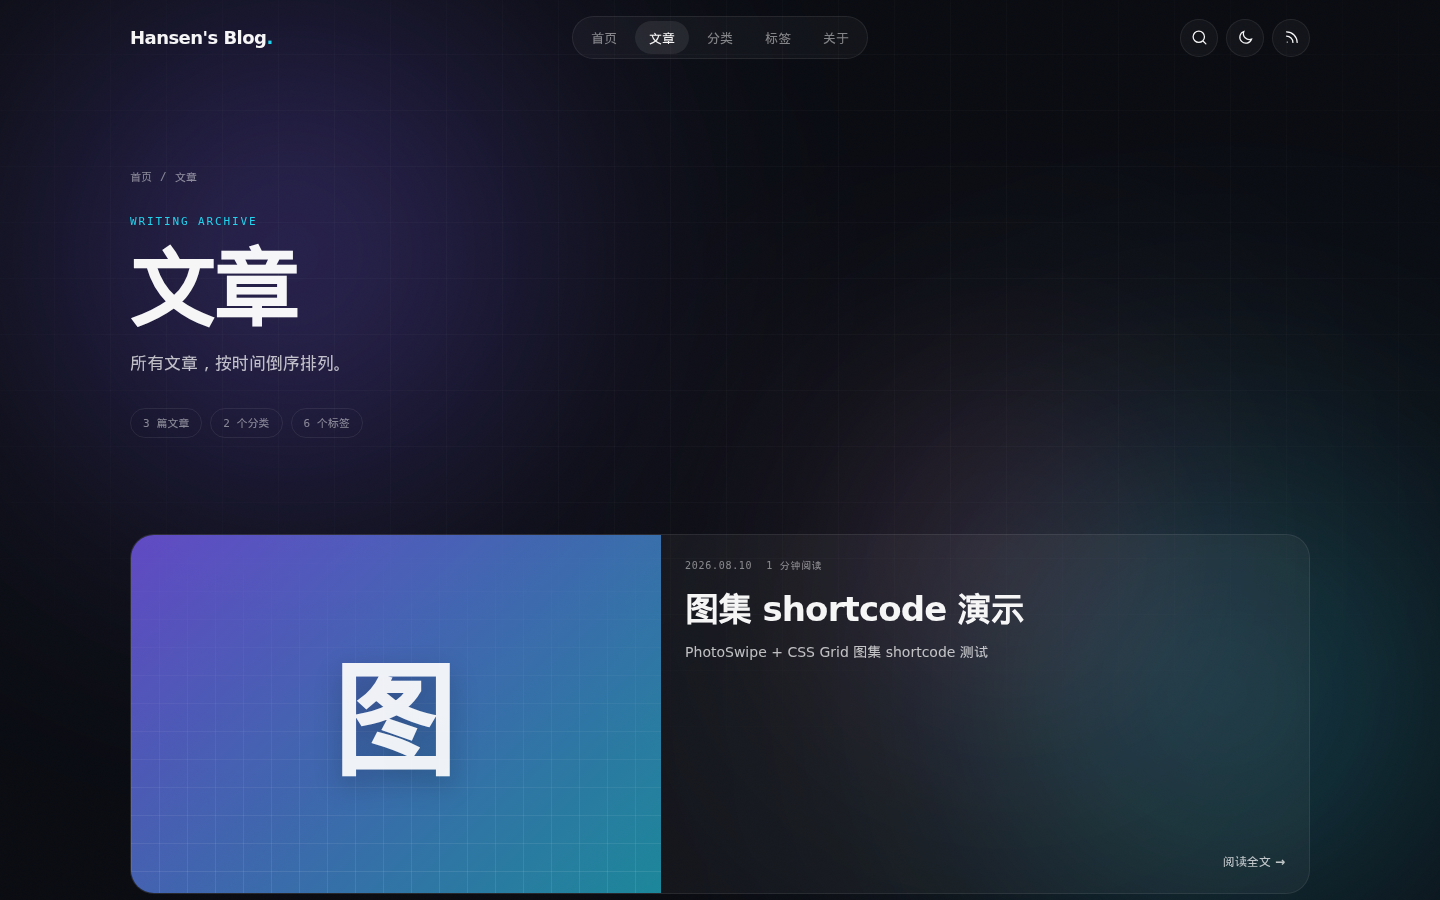
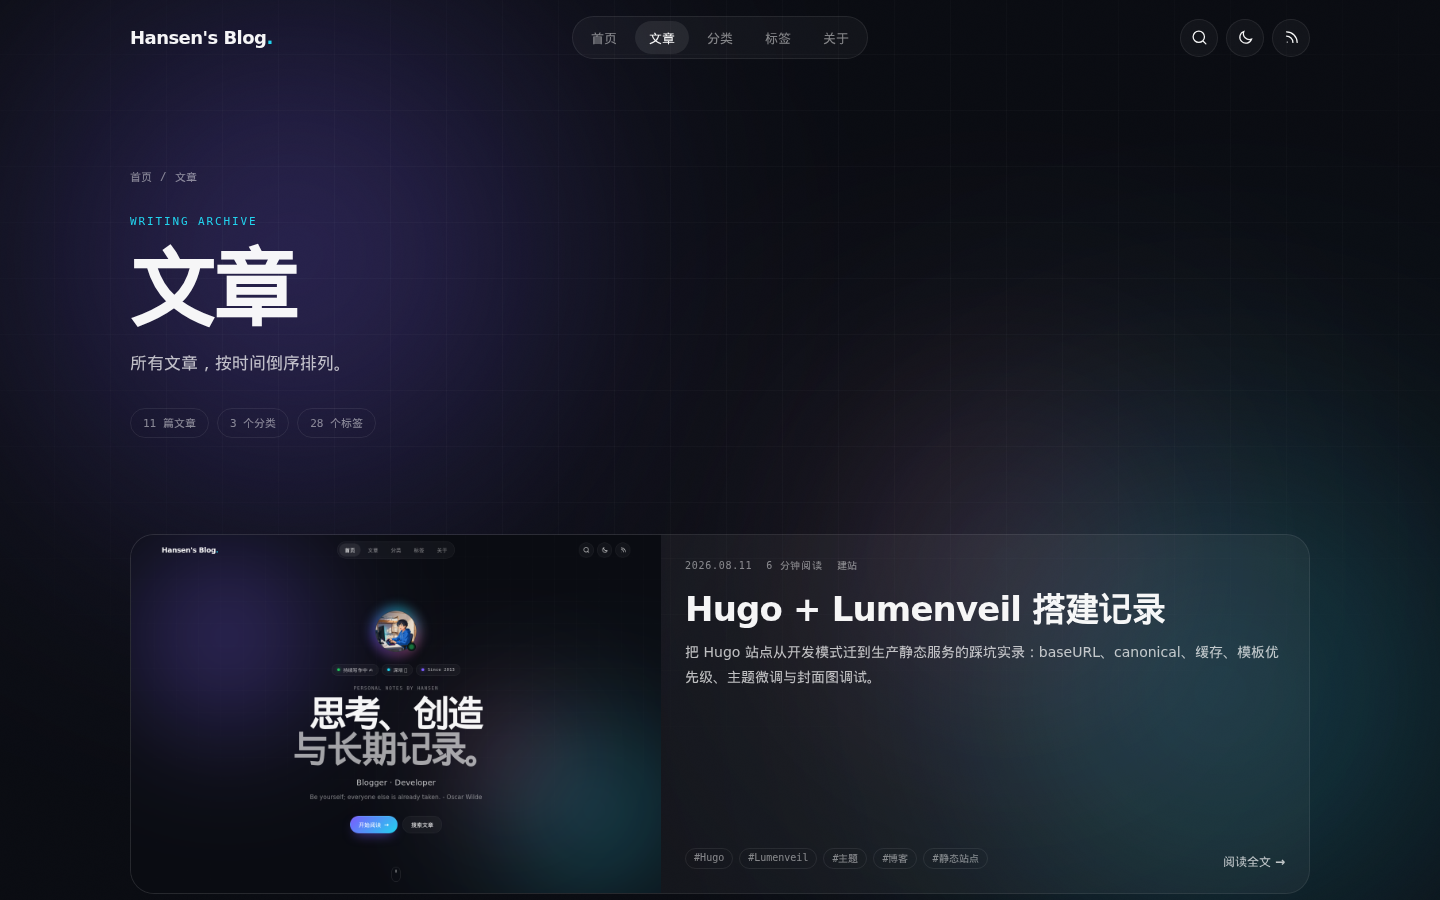
chore: bundle today's screenshots, template fixes, and docs
Squash of 29af830 + 0824f3c + f77db39 into a single commit.

Screenshots (refreshed):
- docs/screenshots/posts.png + posts-dark.png: Articles list with
  new post-card cover support (Resources.GetMatch -> relURL fallback)
- docs/screenshots/post.png + post-dark.png: single Article with
  dark-mode image and conditional post-nav (hidden at archive ends)
- README.md: bilingual EN/中文 captions on all 8 screenshot rows

Templates:
- layouts/_partials/post-card.html: cover now falls back to static/
  path when no page-bundle resource matches
- layouts/archives/single.html + page/single.html + single.html:
  post-nav only renders when both PrevInSection and NextInSection
  exist (no more empty single-side links at the ends of the archive)

Docs:
- README.md: Features list adds cover image bullet; Example frontmatter
  documents cover: with page-bundle / static/ fallback explanation;
  'lastmod' paragraph now uses English placeholder ('Last updated …')
  and notes the rendered label is localized
- README.zh.md: 主要功能 adds cover entry; 新建文章 example frontmatter
  mirrors the English version with the same cover explanation

Author: Hansen1018 <hansendong1018@gmail.com>

diff --git a/layouts/archives/single.html b/layouts/archives/single.html
@@ -1,5 +1,5 @@
 {{ define "main" }}
-<article class="article">
+<article class="article fade-up">
   <header class="article-header">
     <div class="breadcrumbs"><a href="{{ site.Home.RelPermalink }}">首页</a><span>/</span><a href="{{ "/archives/" | relURL }}">文章</a><span>/</span><span>{{ .Title }}</span></div>
     <div class="post-meta">
@@ -27,9 +27,9 @@
     </aside>
     {{ end }}{{ end }}
   </div>
-  <nav class="post-nav" aria-label="文章导航">
-    {{ with .PrevInSection }}<a href="{{ .RelPermalink }}"><span>上一篇</span><strong>{{ .LinkTitle }}</strong></a>{{ else }}<span></span>{{ end }}
-    {{ with .NextInSection }}<a href="{{ .RelPermalink }}" class="post-nav__next"><span>下一篇</span><strong>{{ .LinkTitle }}</strong></a>{{ end }}
-  </nav>
+  {{ if and .PrevInSection .NextInSection }}<nav class="post-nav" aria-label="文章导航">
+    <a href="{{ .PrevInSection.RelPermalink }}"><span>上一篇</span><strong>{{ .PrevInSection.LinkTitle }}</strong></a>
+    <a href="{{ .NextInSection.RelPermalink }}" class="post-nav__next"><span>下一篇</span><strong>{{ .NextInSection.LinkTitle }}</strong></a>
+  </nav>{{ end }}
 </article>
 {{ end }}

diff --git a/layouts/single.html b/layouts/single.html
@@ -1,5 +1,5 @@
 {{ define "main" }}
-<article class="article">
+<article class="article fade-up">
   <header class="article-header">
     <div class="breadcrumbs"><a href="{{ site.Home.RelPermalink }}">首页</a>{{ if eq .Section "archives" }}<span>/</span><a href="{{ "/archives/" | relURL }}">文章</a>{{ end }}<span>/</span><span>{{ .Title }}</span></div>
     {{ if eq .Section "archives" }}<div class="post-meta"><time datetime="{{ .Date.Format "2006-01-02" }}">{{ .Date.Format "2006 年 01 月 02 日" }}</time>{{ if and .Lastmod (gt .Lastmod .Date) }}<time datetime="{{ .Lastmod.Format "2006-01-02" }}">更新于 {{ .Lastmod.Format "2006 年 01 月 02 日" }}</time>{{ end }}<span>{{ .ReadingTime }} 分钟阅读</span><span>{{ .WordCount }} 字</span></div>{{ end }}

diff --git a/layouts/page/single.html b/layouts/page/single.html
@@ -1,5 +1,5 @@
 {{ define "main" }}
-<article class="article">
+<article class="article fade-up">
   <header class="article-header">
     <div class="breadcrumbs"><a href="{{ site.Home.RelPermalink }}">首页</a><span>/</span><span>{{ .Title }}</span></div>
     <h1>{{ .Title }}</h1>

diff --git a/layouts/_partials/post-card.html b/layouts/_partials/post-card.html
@@ -5,6 +5,8 @@
       {{ $img := $.Resources.GetMatch (printf "%s" .) }}
       {{ if $img }}
         {{ $cover = $img.RelPermalink }}
+      {{ else }}
+        {{ $cover = . | relURL }}
       {{ end }}
     {{ end }}
     {{ if $cover }}

diff --git a/README.md b/README.md
@@ -12,21 +12,21 @@ Live preview: <https://blog.hansendong.top>
 
 | Home | Articles |
 | --- | --- |
-| ![Home hero with aurora background and status chips](docs/screenshots/home.png) | ![Posts archive with localized section title and pagination](docs/screenshots/posts.png) |
+| ![Home hero with aurora background and status chips / 首页：极光背景与状态徽章](docs/screenshots/home.png) | ![Posts archive with localized section title and pagination / 文章归档页：本地化标题与分页](docs/screenshots/posts.png) |
 
 | Article | About |
 | --- | --- |
-| ![Single post with PhotoSwipe gallery and code copy buttons](docs/screenshots/post.png) | ![About page rendered with glass surfaces and contact table](docs/screenshots/about.png) |
+| ![Single post with PhotoSwipe gallery and code copy buttons / 文章页：PhotoSwipe 图集与代码复制](docs/screenshots/post.png) | ![About page rendered with glass surfaces and contact table / 关于页：玻璃表面与联系方式表格](docs/screenshots/about.png) |
 
 ### Dark mode
 
 | Home | Articles |
 | --- | --- |
-| ![Home hero in dark mode with aurora glow](docs/screenshots/home-dark.png) | ![Posts archive in dark mode](docs/screenshots/posts-dark.png) |
+| ![Home hero in dark mode with aurora glow / 深色首页：极光辉光](docs/screenshots/home-dark.png) | ![Posts archive in dark mode / 深色文章归档页](docs/screenshots/posts-dark.png) |
 
 | Article | About |
 | --- | --- |
-| ![Single post in dark mode with PhotoSwipe gallery](docs/screenshots/post-dark.png) | ![About page in dark mode with glass surfaces](docs/screenshots/about-dark.png) |
+| ![Single post in dark mode with PhotoSwipe gallery / 深色文章页：PhotoSwipe 图集](docs/screenshots/post-dark.png) | ![About page in dark mode with glass surfaces / 深色关于页：玻璃表面](docs/screenshots/about-dark.png) |
 
 ## English
 
@@ -41,6 +41,7 @@ Live preview: <https://blog.hansendong.top>
 - Dynamic copyright range (from `since` to the current year) and CC BY-NC-SA 4.0 license badge in the footer
 - Syntax highlighting and one-click code or article-link copy
 - PhotoSwipe-powered image gallery shortcode with a CSS grid layout
+- Optional `cover` front matter per post — page-bundle image or `static/` asset, used as the archive-page thumbnail
 - Open Graph, Twitter Card, canonical URL, and JSON-LD metadata
 - Reduced-motion support, keyboard focus states, and mobile navigation
 - Hugo Pipes minification and asset fingerprinting
@@ -172,11 +173,14 @@ draft: false
 description: "A short summary displayed in article cards and metadata."
 categories: ["Notes"]
 tags: ["Hugo", "Writing"]
+cover: "images/hello-world.jpg"   # optional; falls back to a static/ asset when no page-bundle image matches
 toc: true
 ---
 ```
 
-`lastmod` is optional. When present and later than `date`, a "更新于 …" line is rendered in the article header.
+`lastmod` is optional. When present and later than `date`, a "Last updated …" line is rendered in the article header (the template uses a localized label, so the rendered text matches the site's language).
+
+`cover` is optional. When set, it shows up as the post-card thumbnail on the archives page. The value is first looked up as a page-bundle resource, then falls back to a path under `static/` (e.g. `cover: images/foo.png` resolves to `/images/foo.png`).
 
 ### Image gallery shortcode
 
